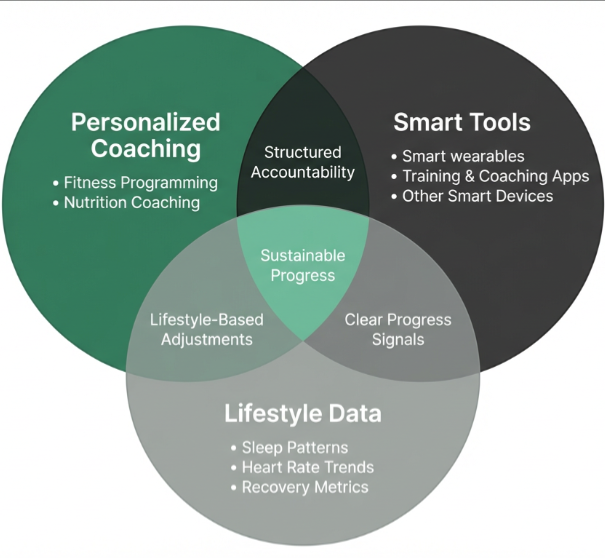
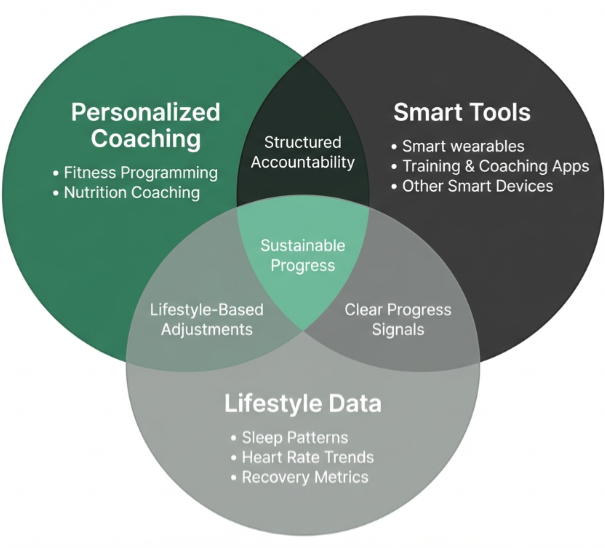
fix: small crop of top margin (10px)

diff --git a/src/components/AboutSection.jsx b/src/components/AboutSection.jsx
@@ -29,7 +29,7 @@ const AboutSection = () => {
 
                         {/* Mobile Image: Appears after 2nd paragraph */}
                         <img
-                            src="/align-method-chart.png?v=14"
+                            src="/align-method-chart.png?v=15"
                             alt="Align Health Method - Personalized, Structured, Sustainable"
                             className="about-chart mobile-only-chart"
                         />
@@ -54,7 +54,7 @@ const AboutSection = () => {
 
                     <div className="about-image desktop-only-chart">
                         <img
-                            src="/align-method-chart.png?v=14"
+                            src="/align-method-chart.png?v=15"
                             alt="Align Health Method - Personalized, Structured, Sustainable"
                             className="about-chart"
                         />
